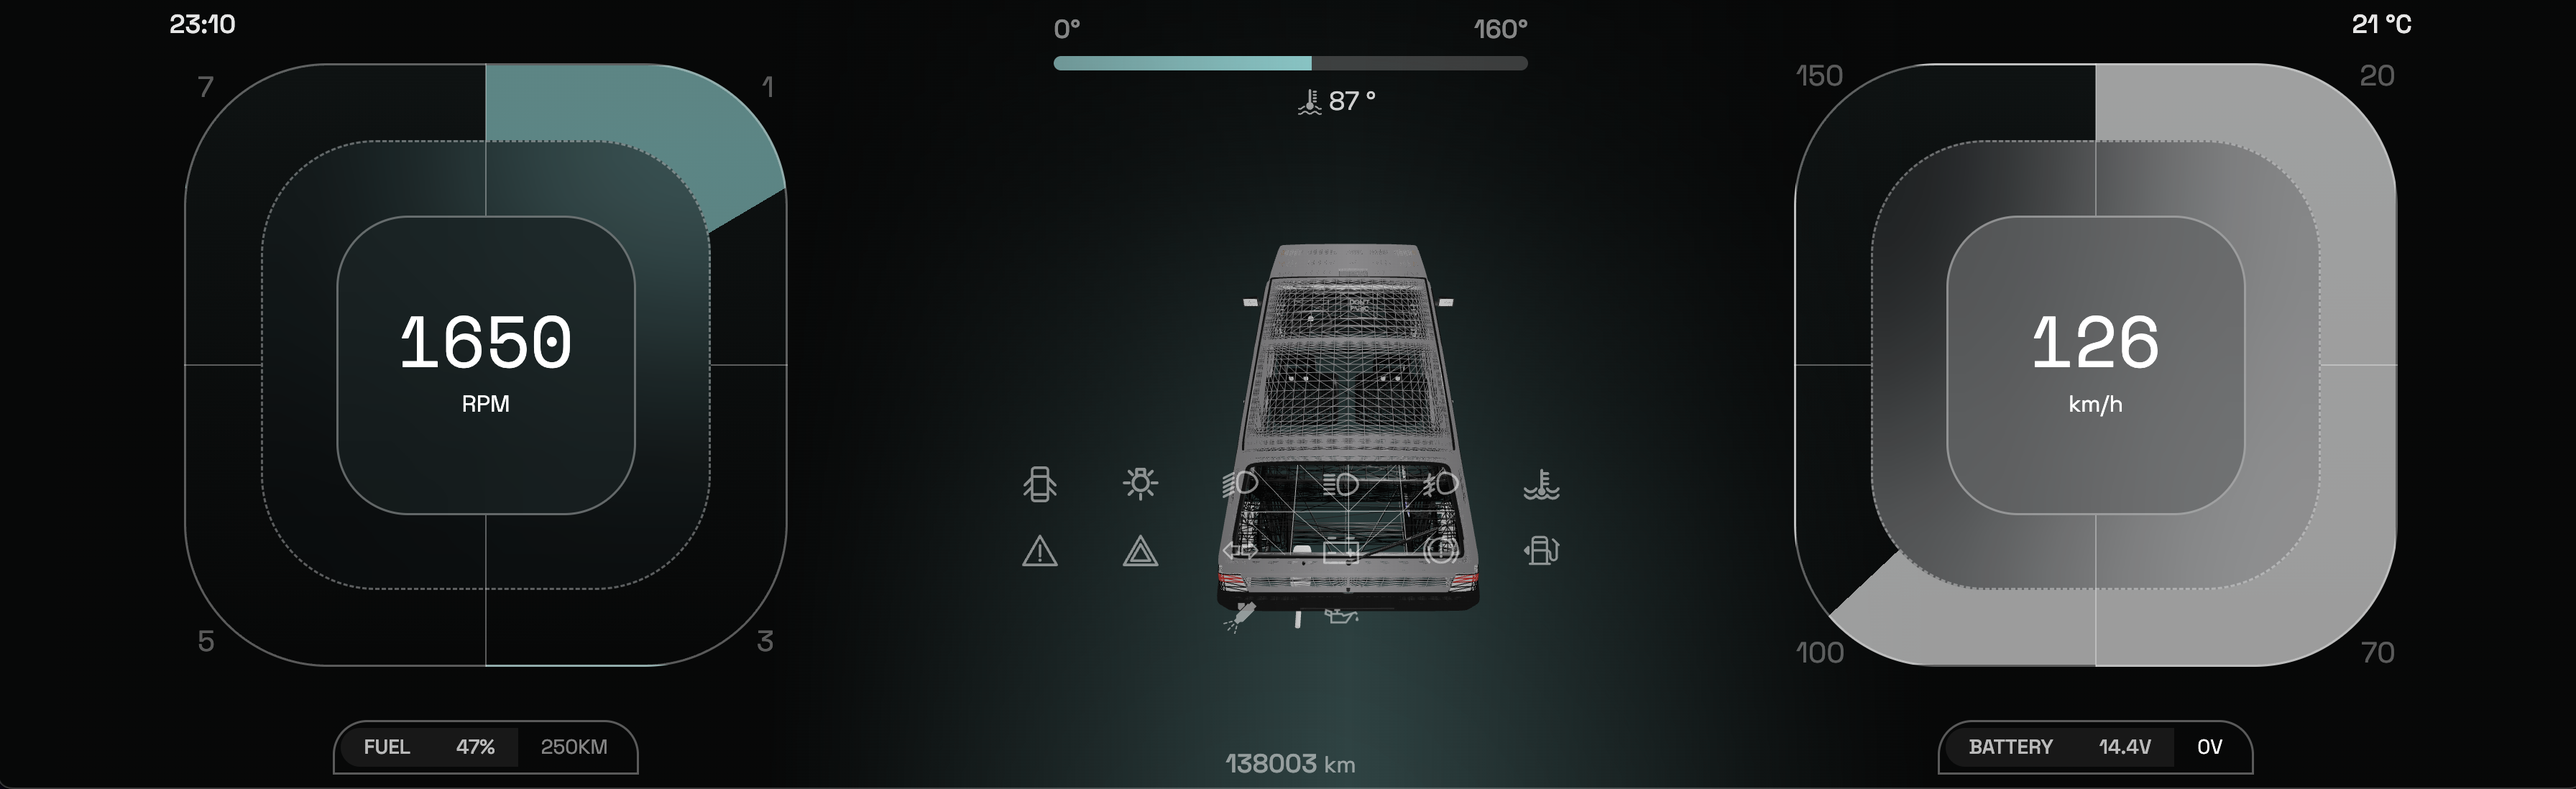
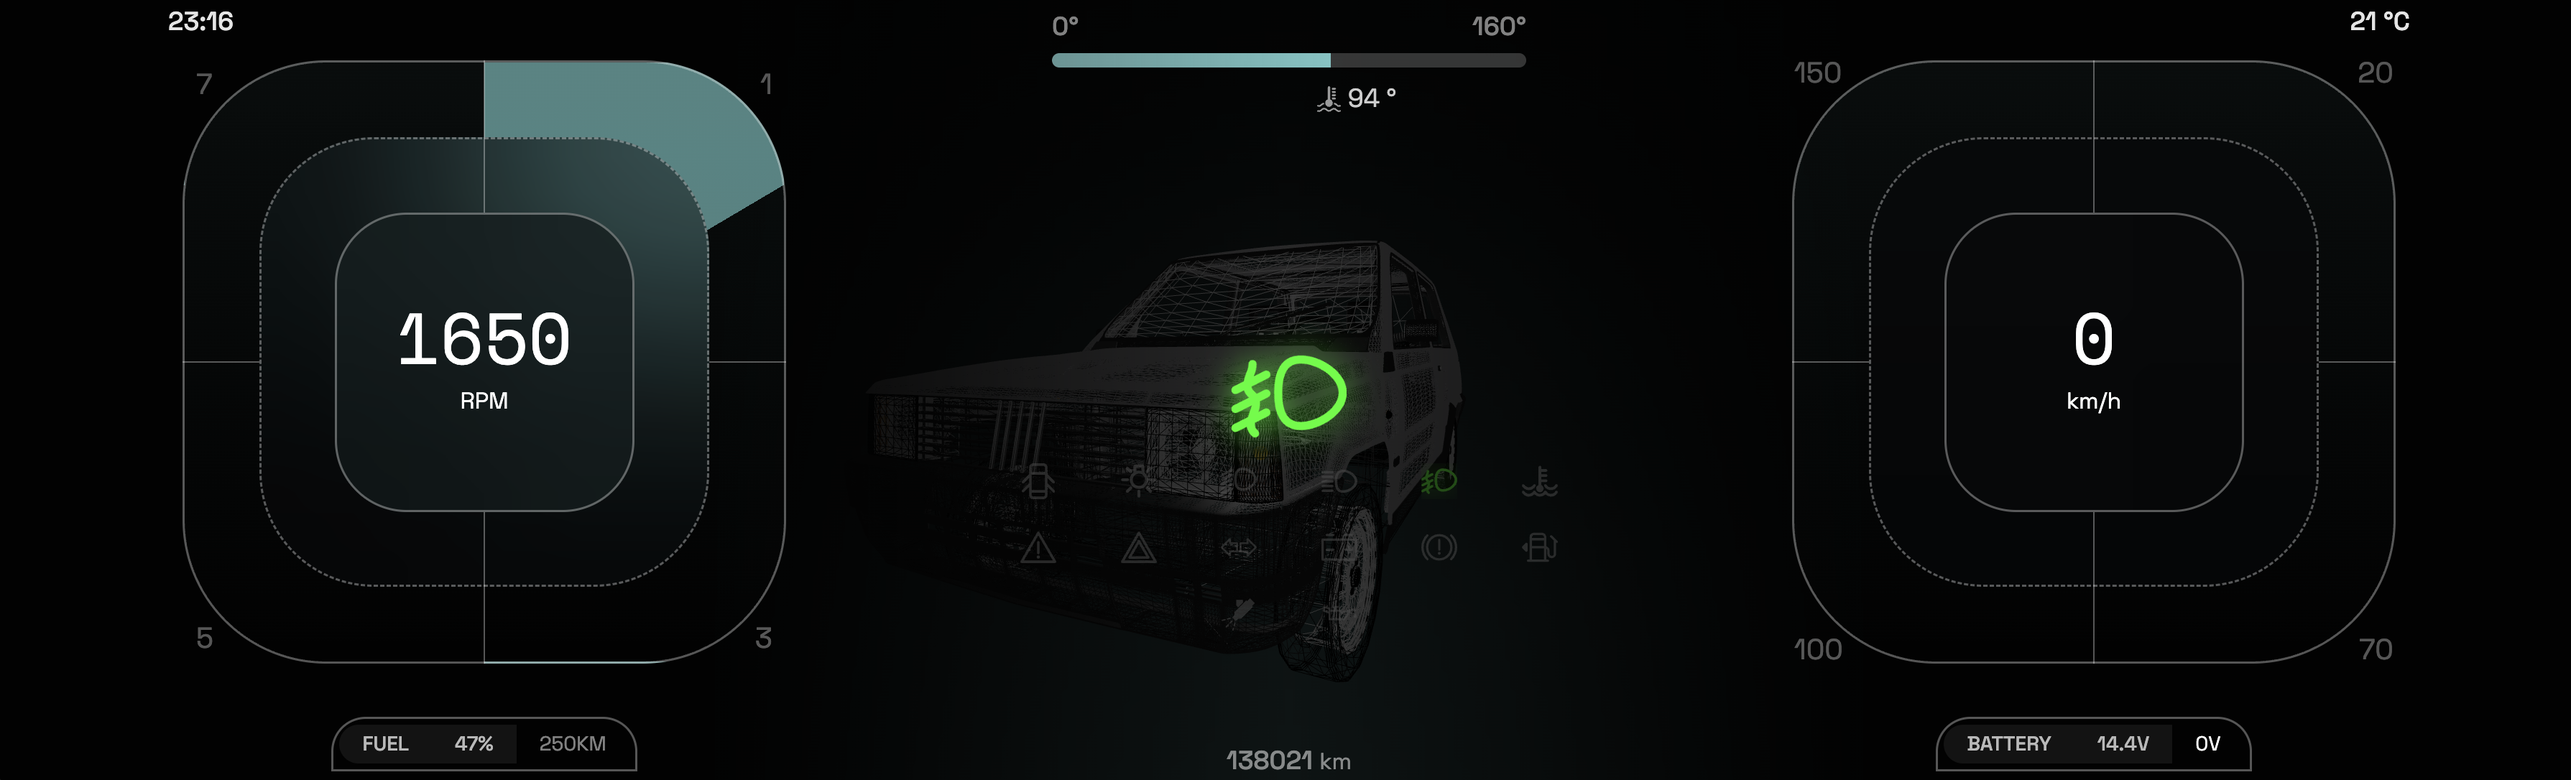
fixed 3d model position

diff --git a/client/src/routes/Cockpit/Cockpit.scss b/client/src/routes/Cockpit/Cockpit.scss
@@ -95,8 +95,8 @@
     .modelViewer{
         position: fixed;
         top: 0;
-        left: 0;
-        margin-left: 40px;
+        left: 50%;
+        transform: translateX(-50%);
         width: 100%;
         height: 100vh;
         z-index: 0;

diff --git a/README.md b/README.md
@@ -31,16 +31,9 @@ Sistema completo di quadro strumenti digitale che sostituisce la strumentazione 
 
 Il cluster digitale sostituisce completamente il quadro strumenti analogico originale con un'interfaccia moderna e personalizzabile.
 
-**Caratteristiche visive**:
-- 🎨 Modello 3D interattivo della Panda
-- ⚡ Animazioni fluide e reattive
-- 🌓 Temi personalizzabili (in roadmap)
-- 📊 Dati real-time da OBD-II
-- 💡 Spie integrate nel design
-
 <div align="center">
   <img src="docs/images/dashboard-main.png" alt="Dashboard principale" width="800"/>
-  <p><em>Dashboard principale con modello 3D interattivo e dati OBD in tempo reale</em></p>
+  <p><em>Dashboard principale con modello 3D interattivo</em></p>
 </div>
 
 ---
